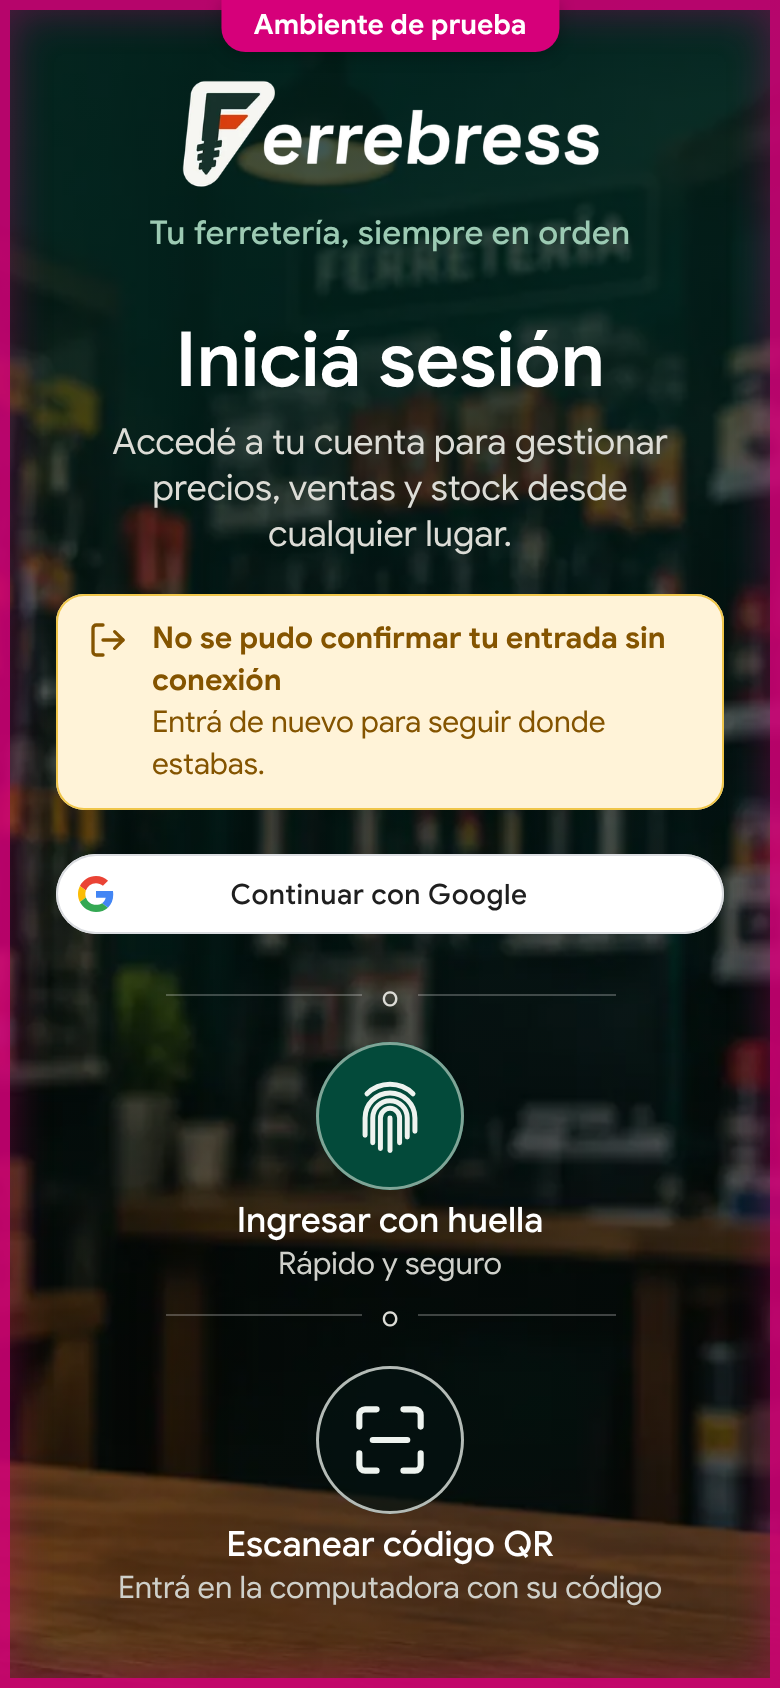
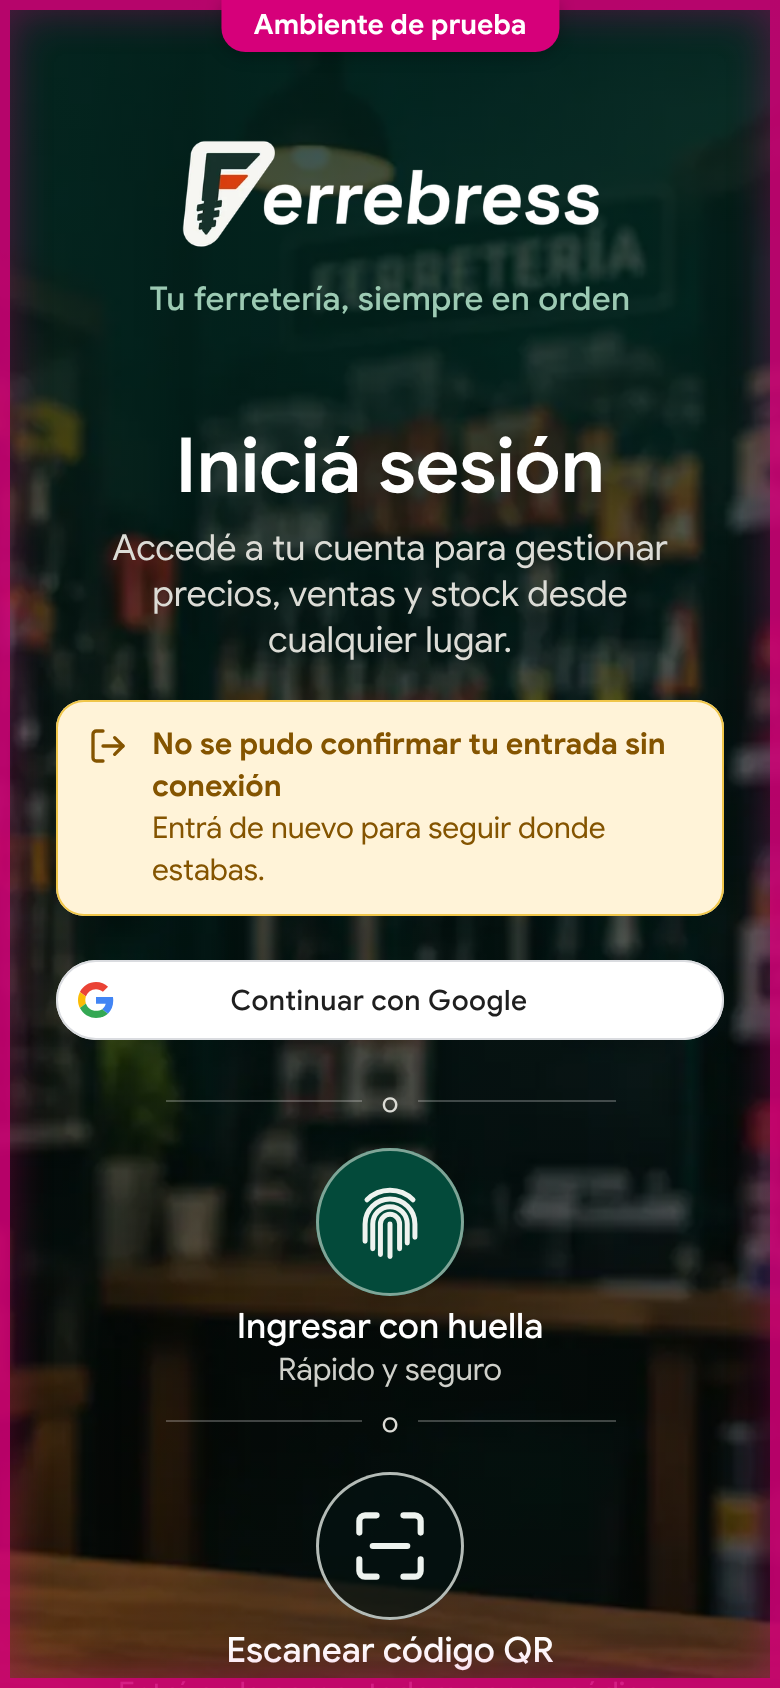
Entrar: vuelven los espacios de la entrada oscura del celular
Carlos pidió volver a poner los espacios de la maqueta aprobada: 70 px arriba del logo, 15 px
entre el logo y el lema, y 50 px antes de «Iniciá sesión». Con el logo otra vez a 70 px, la
pastilla «Sin conexión» ya no lo tapa, así que el logo deja de bajar sin conexión. La letra más
grande y el lema siguen como los pidió. En la maqueta, lo mismo, con sus capturas.

Claude-Session: https://claude.ai/code/session_01BmbhiYJAfQvWshUgYzn7JL

diff --git a/docs/design/mockups/sign-in-phone-dark/final/sign-in.css b/docs/design/mockups/sign-in-phone-dark/final/sign-in.css
@@ -345,15 +345,13 @@ body[data-state="intentos"] #notice { display: flex; }
   body[data-net="offline"] .status-net::before { content: "!"; display: grid; place-items: center; width: 18px; height: 18px; border-radius: 50%; border: 2px solid currentColor; font-size: 12px; font-weight: 800; }
 
   /* La marca: el logo blanco y el lema. */
-  .brand { order: 1; display: flex; flex-direction: column; align-items: center; padding-top: 40px; }
-  /* Sin conexión, «Sin conexión» va arriba a la derecha: el logo baja para que no lo tape. */
-  body:is([data-state="sin-conexion"], [data-state="sin-conexion-huella"]) .brand { padding-top: 76px; }
+  .brand { order: 1; display: flex; flex-direction: column; align-items: center; padding-top: 70px; }
   .brand-logo img { width: 209px; height: auto; }
-  .brand-motto { margin: 12px auto 0; max-width: 300px; font-size: 16.5px; line-height: 22px; font-weight: 500; letter-spacing: 0.01em; color: var(--oscuro-lema); }
+  .brand-motto { margin: 15px auto 0; max-width: 300px; font-size: 16.5px; line-height: 22px; font-weight: 500; letter-spacing: 0.01em; color: var(--oscuro-lema); }
 
   .right { order: 2; display: flex; flex-direction: column; }
   .card { display: flex; flex-direction: column; align-items: center; }
-  .phone-head { order: 0; margin-top: 30px; }
+  .phone-head { order: 0; margin-top: 50px; }
   .phone-title { font-size: 38px; line-height: 44px; font-weight: 600; letter-spacing: -0.005em; color: var(--oscuro-texto); }
   .phone-sub { max-width: 300px; margin: 8px auto 0; font-size: 18px; line-height: 23px; font-weight: 400; color: var(--oscuro-texto-2); }
   .notice { text-align: left; align-self: stretch; }

diff --git a/src/app/modules/sign-in/screens/Entrance/styles/phone-dark.css b/src/app/modules/sign-in/screens/Entrance/styles/phone-dark.css
@@ -78,11 +78,7 @@
 
       .brand {
         gap: 0;
-        padding-top: 40px;
-      }
-      /* Sin conexión, «Sin conexión» va arriba a la derecha: el logo baja para que no lo tape. */
-      &.offline .brand {
-        padding-top: 76px;
+        padding-top: 70px;
       }
       .brand-logo img {
         width: 209px;
@@ -90,7 +86,7 @@
       }
       .brand-motto {
         max-width: 300px;
-        margin: 12px auto 0;
+        margin: 15px auto 0;
         font-size: 16.5px;
         line-height: 22px;
         font-weight: 500;
@@ -109,7 +105,7 @@
       }
       .phone-head {
         order: 0;
-        margin-top: 30px;
+        margin-top: 50px;
       }
       .phone-title {
         font-size: 38px;

diff --git a/docs/design/mockups/sign-in-phone-dark/final/changes.md b/docs/design/mockups/sign-in-phone-dark/final/changes.md
@@ -142,8 +142,8 @@ Vale sobre lo de arriba; la maqueta ya tiene estos valores, los mismos de la apl
 - **La letra, un poco más grande:** el lema a 16,5 px, el subtítulo a 18 px, los nombres de la huella
   y de escanear a 17,5 px, sus detalles a 15,5 px, la «o» a 14 px y el pie a 15,5 px. El título
   queda en 38 px.
-- **Menos espacio** arriba del logo (40 px en lugar de 70) y entre el lema e «Iniciá sesión» (30 px
-  en lugar de 50).
+- **Los espacios** arriba del logo (70 px), debajo del logo (15 px) y entre el lema e «Iniciá
+  sesión» (50 px) son los de la maqueta aprobada.
 
 ## Entrar sin conexión (15 · etapa a)
 
@@ -171,11 +171,6 @@ selector de la maqueta y en `?estado=`:
 
 ## Lo que queda sin resolver
 
-- **«Sin conexión» arriba a la derecha tapa la punta del logo** en los dos estados sin conexión:
-  con el logo a 40 px del borde (lo que pidió Carlos al probarla) quedan a la misma altura. La
-  aplicación tiene los mismos valores, así que se ve igual. No se cambió: decide Carlos dónde va.
 - **Tocar la huella sin conexión** muestra en la maqueta la misma pantalla de Entrando que con
-  conexión («Ahora Ferrebress abre tu sesión»). Sin conexión no hay servidor que la abra: por
-  15 · R2.6 se llega directo al marco con la luz en «Sin conexión». La maqueta no tiene el marco.
-- **Sin conexión, el logo baja** (76 px arriba en lugar de 40): la pastilla «Sin conexión», arriba
-  a la derecha, tapaba la punta del logo. También en la aplicación.
+  conexión («Ahora Ferrebress abre tu sesión»). En la aplicación no: por 15 · R2.6 se llega directo
+  al marco con la luz en «Sin conexión» (lo decidió Carlos). La maqueta no tiene el marco.
